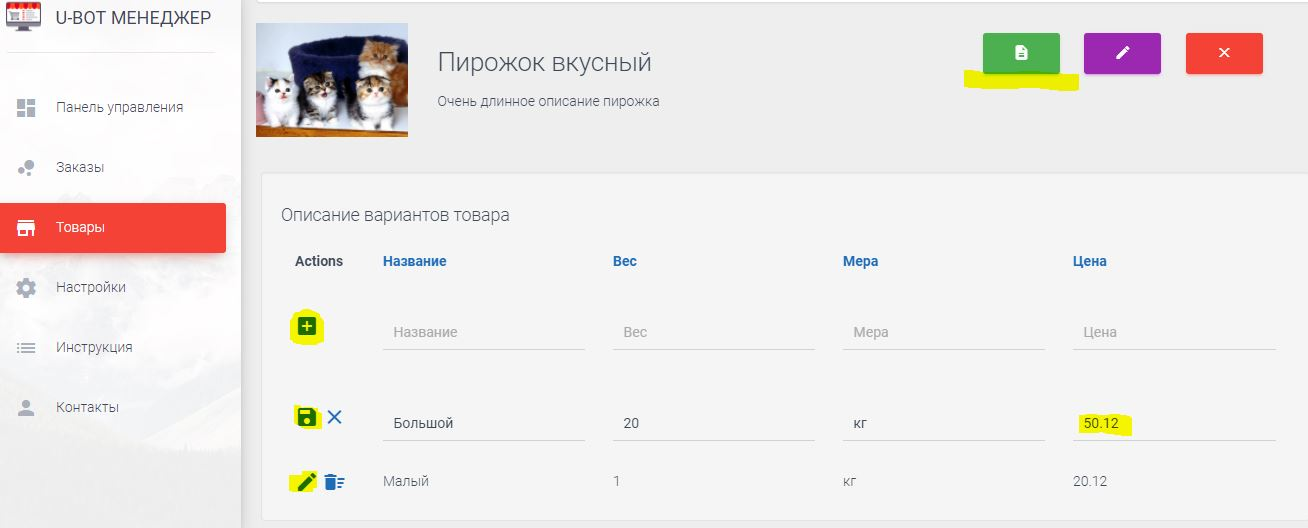
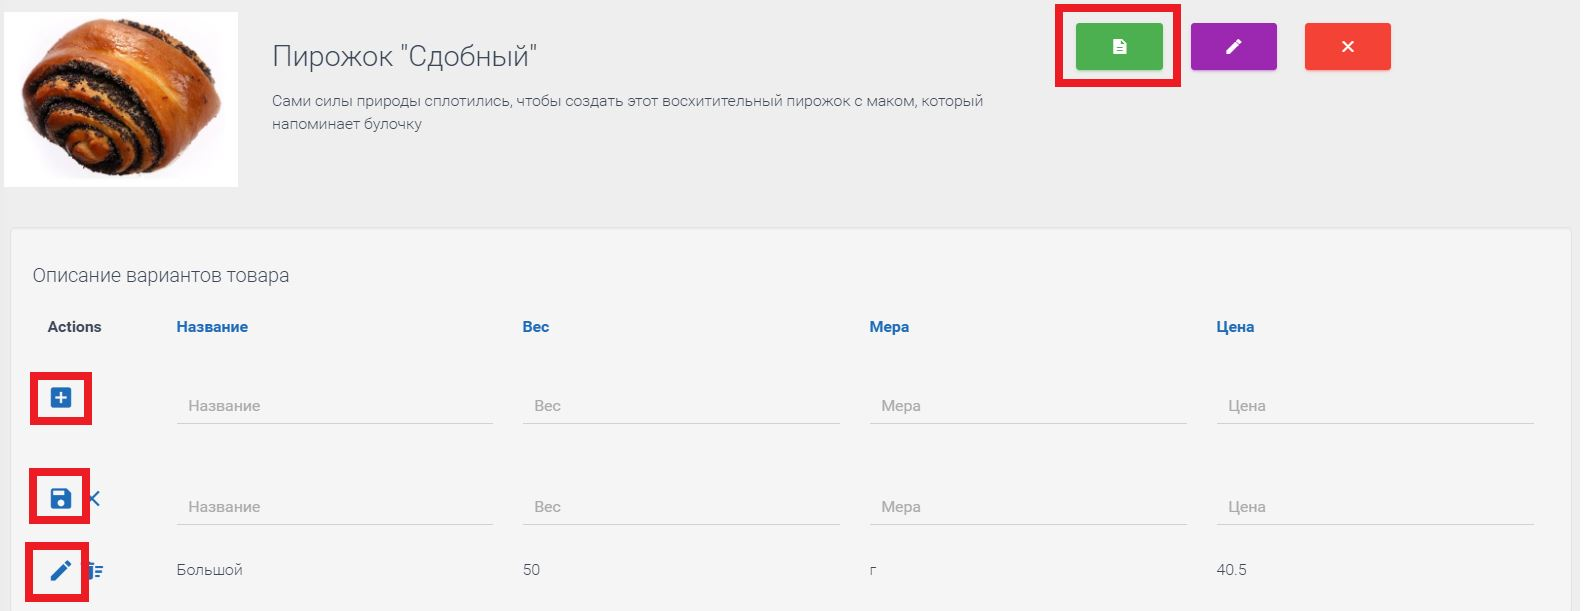
half intuiction in orders

diff --git a/src/app/layout/instruction/instruction.component.html b/src/app/layout/instruction/instruction.component.html
@@ -1,47 +1,108 @@
 <div class="main-content">
     <div class="container-fluid">
         <h2>Инструкция</h2>
-        <p>В данном разделе предоставленная информация по использованию данного продукта. Очень важно ознакомится с ней, дабы правильно пользоваться системой. </p>
+        <p>В данном разделе предоставлена информация по использованию данного продукта. <b>Очень важно ознакомиться с ней</b>, дабы правильно пользоваться системой. </p>
         <div class="row">
             <h3 class="cursor-pointer" data-toggle="collapse" data-target="#" data-target="#1">1. Наполнение каталога</h3>
             <div id="1" class="collapse">
                 <h4 class="cursor-pointer" data-toggle="collapse" data-target="#" data-target="#1_1">1.1 Создание категорий и подкатегорий.</h4>
-                <div id="1_1" class="collapse">
-                    <p>В нашей системе добовление товаров в катало происходит из специального раздела,
-                        <a target="_blank" href="https://ubot-beta.herokuapp.com/items">https://ubot-beta.herokuapp.com/items</a>. Для начала добавления товаров, нужно создать категорию товаров. Кажадя категория
-                        может содержать подкатегории. И уже в подкатегории, вы можете добавлять товары.
 
+                <div id="1_1" class="collapse">
+                    <p>В нашей системе добавление товаров в каталог происходит из специального раздела,
+                        <a target="_blank" href="https://ubot-beta.herokuapp.com/items">https://ubot-beta.herokuapp.com/items</a>. Для начала добавления товаров, нужно создать категорию товаров. Кажадя категория может содержать подкатегории. И уже в подкатегории,
+                        вы можете добавлять товары.
+                        <img class="leftimg" src="../../../assets/img/instruction/items.JPG" alt="картинка">
                     </p>
-                    <img class="leftimg" src="../../../assets/img/instruction/items.JPG" alt="картинка">
-                    <p>Добавление подкатегории.</p>
-                    <img class="leftimg" src="../../../assets/img/instruction/sub.JPG" alt="картинка">
-                    <p>Открывать категории для просмотра и редактирования можно по клику на строку с названием категории или подкатегории. Любую
-                    категорию или подкатегорию Вы можете удалить, вместе с ней будут удалены все товары которые содержаться в ней. Важно, если
-                    ранее клиенты сделали заказ товаров, а потом этот товар или его категория были удалены, на таблице с заказами в заказе также
-                    товар будет удален.
+                    <p>Добавление подкатегории.
+                        <img class="leftimg" src="../../../assets/img/instruction/sub.JPG" alt="картинка">
+                    </p>
+                    <p>Открывать категории для просмотра и редактирования можно по клику на строку с названием категории или подкатегории. Любую категорию или подкатегорию Вы можете <span class="text-danger">удалить</span>, вместе с ней будут удалены все
+                        товары которые содержаться в ней.
+                        <b>Важно</b>, если ранее клиенты сделали заказ товаров, а потом этот товар или его категория были удалены, на таблице с заказами в заказе также товар будет удален.
                     </p>
                 </div>
                 <h4 class="cursor-pointer" data-toggle="collapse" data-target="#" data-target="#1_2">1.2 Добавление товаров.</h4>
+
                 <div id="1_2" class="collapse">
-                    <p>Добавление товаров происходит в специальном отделе в подкатегории, для добавления товары Вы должны выбрать его изображение, название и описание. Все поля являются обязательными.
+                    <p>Добавление товаров происходит в специальном отделе в подкатегории, для добавления товара Вы должны выбрать его изображение, название и описание. <b>Все поля являются обязательными</b>.
                         <img class="leftimg" src="../../../assets/img/instruction/cats.JPG" alt="картинка">
-                        Товар можно удалить, нажав на красную кнопку удаления или отредактирвать (фиолетовая кнопка).
-                        <img class="leftimg" src="../../../assets/img/instruction/edit.JPG" alt="картинка">
-                        Для того, что бы клиенты могли заказть товар в чат-боте, товару нужно добавить размеры и цены. Для каждого размера - своя цена.
-                        Это происходит по нажатию на зеленую кнопку.
-                        <img class="leftimg" src="../../../assets/img/instruction/sizes.JPG" alt="картинка">
-                        Перед вами появится таблица размеров. В первую очередь, для добавления нового размера, нажмите на иконку с +. Откроются поля для заполнения(не перепутайте с полями, которые уже открыты, это поля для фильтрации).
-                        Вы должны заполнить название, вес и его измерение (млл, кг, г и тд), а также указать цену. Цена может быть дробной, нужно указывать в таком случае через точку, варинат 12,2 не верен, нужно 12.2 .
-                        После того как Вы заполните нужные поля, наимаем на кнопку с дискетой и сохраняем размер.
-                        В будущем его можно будет удалить или редактировать.
                     </p>
+                    <p>
+                        Товар можно удалить, нажав на красную кнопку удаления или отредактирвать (<span class="text-purple">фиолетовая</span> кнопка).
+                        <img class="leftimg" src="../../../assets/img/instruction/edit.JPG" alt="edit">
+                    </p>
+                    <p>
+                        Для того, что бы клиенты могли заказать товар в чат-боте, товару нужно добавить размеры и цены. Для каждого размера - своя цена. Это происходит по нажатию на <span class="text-success">зеленую</span> кнопку.
+                        <img class="leftimg" src="../../../assets/img/instruction/sizes.JPG" alt="картинка">
+                    </p>
+                    <p>
+                        Перед вами появится таблица размеров. В первую очередь, для добавления нового размера, нажмите на иконку <span class="material-icons">add_box</span>. Откроются поля для заполнения(не перепутайте с полями, которые уже открыты, это
+                        поля для фильтрации). Вы должны заполнить название, вес и его измерение (мл, л, кг, г и тд), а также указать цену. Цена может быть дробной, нужно указывать в таком случае через точку,
+                        <b>варинат 12,2 не верен,
+                                нужно 12.2.</b> После того как Вы заполните нужные поля, нажимаем на кнопку <span class="material-icons">save</span> и сохраняем размер. В будущем его можно будет удалить или редактировать.
+                    </p>
+
+
                 </div>
 
 
             </div>
 
             <h3 class="cursor-pointer" data-toggle="collapse" data-target="#" data-target="#2">2. Обработка заказов</h3>
-            <div id="2" class="collapse"></div>
+            <div id="2" class="collapse">
+                <h4 class="cursor-pointer" data-toggle="collapse" data-target="#" data-target="#2_1">2.1 Просмотр списка заказов.</h4>
+
+                <div id="2_1" class="collapse">
+                    <p>Сведения о заказе можно увидеть в разделе <a target="_blank" href="https://ubot-beta.herokuapp.com/orders">Заказы</a></p>
+                    <p>После того, как клиент в чат-боте сделал заказ, в таблице появляется запись со статусом "Получен" в крайнем столбце. Это значит, что клиент ожидает ваших действий.
+                        <img class="leftimg" src="../../../assets/img/instruction/acceptOrder.JPG" alt="картинка">
+                    </p>
+                </div>
+                <h4 class="cursor-pointer" data-toggle="collapse" data-target="#" data-target="#2_2">2.2 Изменение статуса заказов.</h4>
+
+                <div id="2_2" class="collapse">
+                    <p>Чтобы уведомить клиента о том, что вы собираетесь выполнить его заказ, необходимо нажать на кнопку в крайнем столбце таблицы и выбрать необходимое:
+                        <img class="leftimg" src="../../../assets/img/instruction/changeStatus.JPG" alt="changeStatus">
+                    </p>
+                    <ul>
+                        <p>
+                            <li>Подтвердить - вы подтверждаете, что можете выполнить его заказ </li>
+                        </p>
+                        <p>
+                            <li>Отклонить - не можете выполнить его заказ</li>
+                        </p>
+                        <p>
+                            <li>Готов - заказ выполнен и клиент может его забрать</li>
+                        </p>
+                        <p>
+                            <li>Забрали - клиент рассчитался и получил заказ</li>
+                        </p>
+                    </ul>.
+
+                    <b>!!</b>
+                    <p>Для того, чтобы клиент мог увидеть время, в течение которого заказ приготовится, необходимо ввести количество минут <b>перед изменением статуса на "Подтвердить". </b>Время вводится здесь
+                        <img class="leftimg" src="../../../assets/img/instruction/timeForOrder.JPG" alt="timeForOrder">
+                    </p>
+                    <p>При изменении статуса, меняется и цвет фона строки, в которой был изменен статус:
+                        <img class="leftimg" src="../../../assets/img/instruction/statusColors.JPG" alt="statusColors">
+                    </p>
+                    <ul>
+                        <p>
+                            <li>Подтвержденный - фон становится <span class="text-blue">голубым █</span></li>
+                        </p>
+                        <p>
+                            <li>Отклоненный - фон становится <span class="text-danger">красным █</span></li>
+                        </p>
+                        <p>
+                            <li>Готов - фон становится<span class="text-success"> зеленым █</span></li>
+                        </p>
+                        <p>
+                            <li>Забранный - фон становится <span class="text-grey">серым █</span></li>
+                        </p>
+                    </ul>
+                </div>
+
+            </div>
 
         </div>
     </div>

diff --git a/src/app/layout/items/items.component.html b/src/app/layout/items/items.component.html
@@ -18,9 +18,9 @@
                 </div>
 
                 <div [attr.id]="'category' + item.id" class="collapse">
-                    <button type="button" class="btn btn-success" data-toggle="collapse" data-target="#" [attr.data-target]="'#addcategory' + item.id">Добавить новую категорию</button>
-                    <button type="button" class="btn btn-success" data-toggle="collapse" data-target="#" [attr.data-target]="'#editcategory' + item.id">Изменить категорию</button>
-                    <button type="button" class="btn btn-danger" (click)="deleteCategory(item.id)">Удалить категорию</button>
+                    <button type="button" class="btn btn-success" data-toggle="collapse" data-target="#" [attr.data-target]="'#addcategory' + item.id">Добавить новую подкатегорию</button>
+                    <button type="button" class="btn btn-success" data-toggle="collapse" data-target="#" [attr.data-target]="'#editcategory' + item.id">Изменить подкатегорию</button>
+                    <button type="button" class="btn btn-danger" (click)="deleteCategory(item.id)">Удалить подкатегорию</button>
 
                     <div [attr.id]="'addcategory' + item.id" class="collapse well">
                         <app-category-add [category]="item" (onAddCategoryEvent)="onAddCategoryEvent($event)"></app-category-add>
@@ -38,8 +38,8 @@
                             </button>
                         </div>
                         <div [attr.id]="'category' + itemCategory.id" class="collapse">
-                            <button type="button" class="btn btn-success" data-toggle="collapse" data-target="#" [attr.data-target]="'#editSubCategory' + itemCategory.id">Изменить категорию</button>
-                            <button type="button" class="btn btn-danger" (click)="deleteCategory(itemCategory)">Удалить категорию</button>
+                            <button type="button" class="btn btn-success" data-toggle="collapse" data-target="#" [attr.data-target]="'#editSubCategory' + itemCategory.id">Изменить подкатегорию</button>
+                            <button type="button" class="btn btn-danger" (click)="deleteCategory(itemCategory)">Удалить подкатегорию</button>
                             <div [attr.id]="'editSubCategory' + itemCategory.id" class="collapse well">
                                 <app-category-edit [category]="itemCategory"></app-category-edit>
                             </div>

diff --git a/src/app/layout/instruction/instruction.component.css b/src/app/layout/instruction/instruction.component.css
@@ -1,7 +1,9 @@
 p {
     font-size: 18px;
 }
-.cursor-pointer, a {
+
+.cursor-pointer,
+a {
     cursor: pointer;
 }
 
@@ -9,12 +11,19 @@ img {
     width: 100%;
 }
 
+.text-purple {
+    color: #9c28b1;
+}
+
+.text-blue {
+    color: #bbdcfc;
+}
+
 h4:hover {
     font-size: 22px;
-/* подчеркивание */
+    /* подчеркивание */
 }
 
 .leftimg {
-    float: left; /* Выравнивание по левому краю */
-    margin: 7px 7px 7px 0; /* Отступы вокруг картинки */
+    margin: 7px 7px 7px 0;
 }
